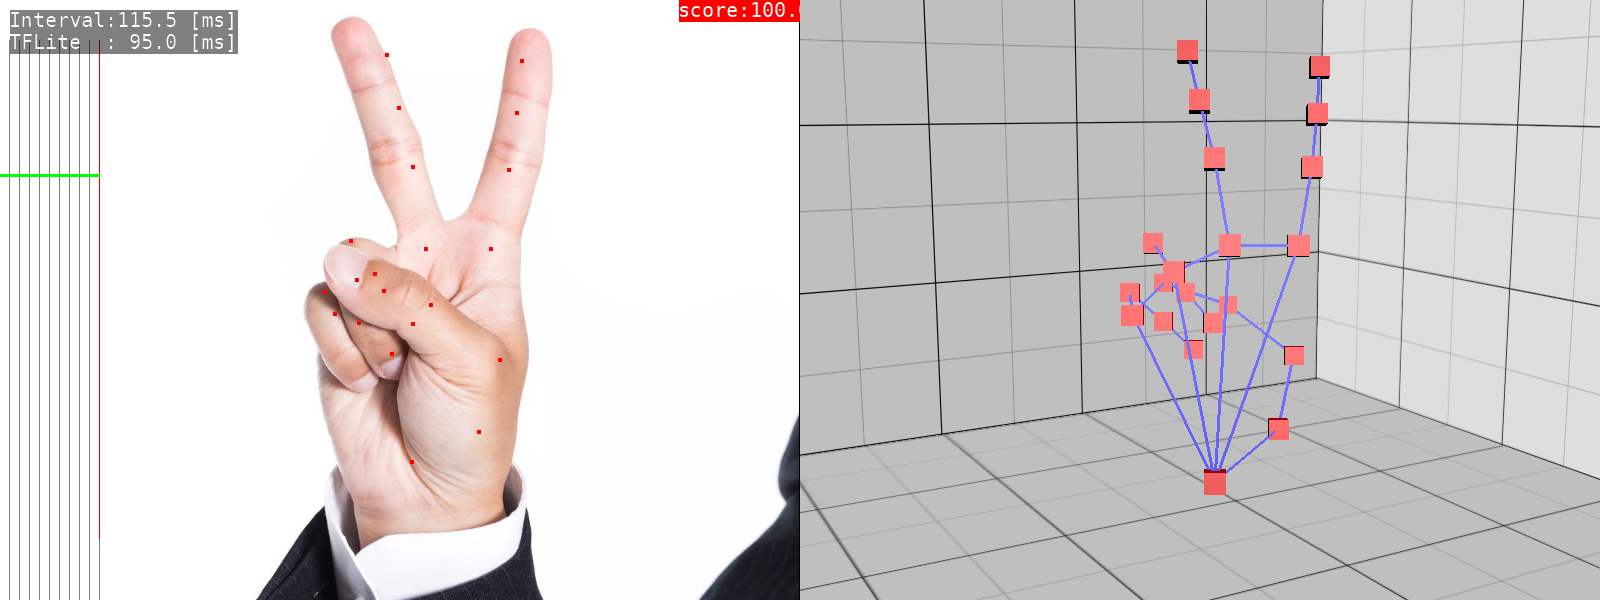
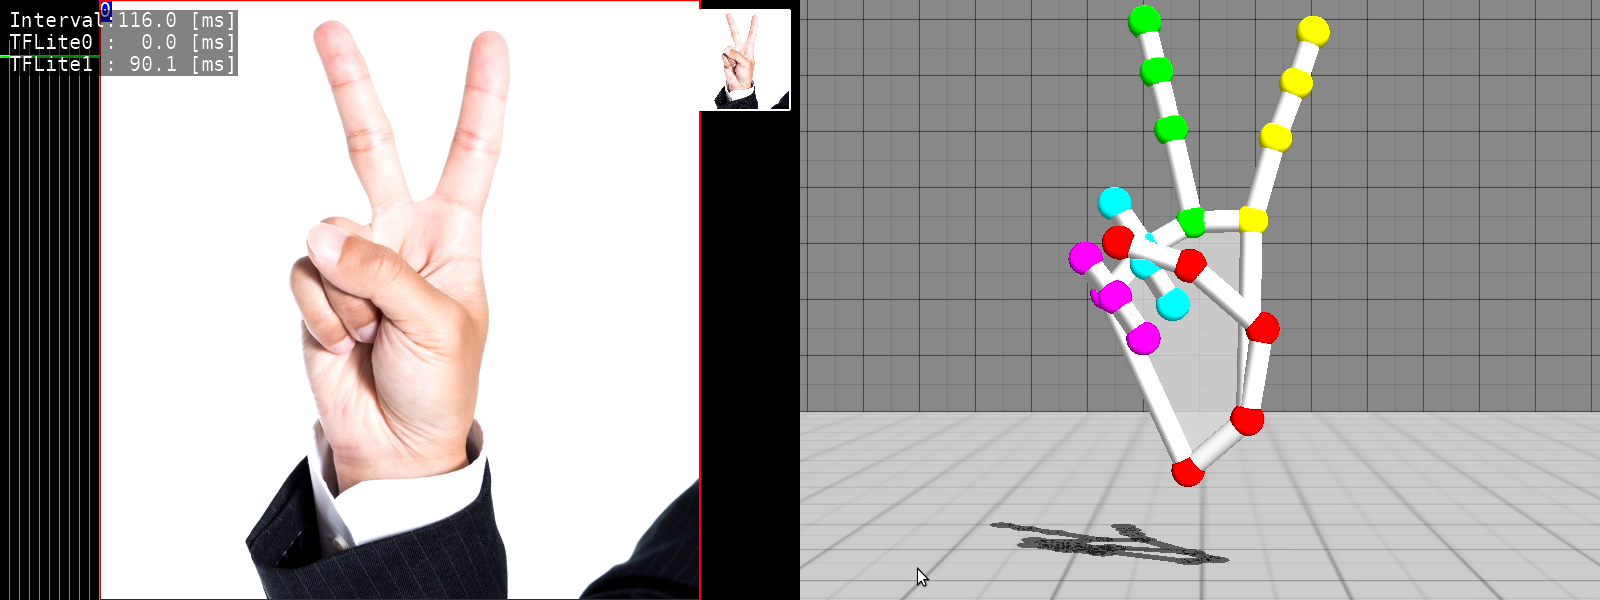
update display design

diff --git a/gl2handpose/main.c b/gl2handpose/main.c
@@ -303,30 +303,15 @@ render_hand_landmark3d (int ofstx, int ofsty, int texw, int texh,
     hand_landmark_result_t hand_draw;
     compute_3d_hand_pos (&hand_draw, texw, texh, hand_landmark, palm);
 
-    /* joint point */
-    matrix_identity (mtxGlobal);
-    matrix_rotate   (mtxGlobal, rotation, 0.0f, 0.0f, 1.0f);
 
-    for (int i = 0; i < HAND_JOINT_NUM; i ++)
-    {
-        float *col;
-        float vec[3] = {hand_draw.joint[i].x, hand_draw.joint[i].y, hand_draw.joint[i].z};
-
-        if      (i >= 17) col = col_violet;
-        else if (i >= 13) col = col_cyan;
-        else if (i >=  9) col = col_green;
-        else if (i >=  5) col = col_yellow;
-        else              col = col_red;
-
-        draw_sphere (mtxGlobal, vec, 15.0f, col);
-    }
-
-    /* joint node */
     for (int is_shadow = 0; is_shadow < 2; is_shadow ++)
     {
-        float *col = col_node;
-        float *colp= col_palm;
+        float *colj;
+        float *coln = col_node;
+        float *colp = col_palm;
+
         matrix_identity (mtxGlobal);
+        matrix_rotate   (mtxGlobal, rotation, 0.0f, 0.0f, 1.0f);
 
         if (is_shadow)
         {
@@ -345,35 +330,53 @@ render_hand_landmark3d (int ofstx, int ofsty, int texw, int texh,
 
             matrix_mult (mtxGlobal, mtxGlobal, mtxShadow);
 
-            col  = col_gray;
+            colj = col_gray;
+            coln = col_gray;
             colp = col_gray;
         }
 
-        matrix_rotate (mtxGlobal, rotation, 0.0f, 0.0f, 1.0f);
+        /* joint point */
+        for (int i = 0; i < HAND_JOINT_NUM; i ++)
+        {
+            float vec[3] = {hand_draw.joint[i].x, hand_draw.joint[i].y, hand_draw.joint[i].z};
 
-        render_node (mtxGlobal, &hand_draw, 0,  1, col);
-        render_node (mtxGlobal, &hand_draw, 0, 17, col);
+            if (!is_shadow)
+            {
+                if      (i >= 17) colj = col_violet;
+                else if (i >= 13) colj = col_cyan;
+                else if (i >=  9) colj = col_green;
+                else if (i >=  5) colj = col_yellow;
+                else              colj = col_red;
+            }
 
-        render_node (mtxGlobal, &hand_draw,  1,  5, col);
-        render_node (mtxGlobal, &hand_draw,  5,  9, col);
-        render_node (mtxGlobal, &hand_draw,  9, 13, col);
-        render_node (mtxGlobal, &hand_draw, 13, 17, col);
+            draw_sphere (mtxGlobal, vec, 15.0f, colj);
+        }
 
+        /* joint node */
+        render_node (mtxGlobal, &hand_draw, 0,  1, coln);
+        render_node (mtxGlobal, &hand_draw, 0, 17, coln);
+
+        render_node (mtxGlobal, &hand_draw,  1,  5, coln);
+        render_node (mtxGlobal, &hand_draw,  5,  9, coln);
+        render_node (mtxGlobal, &hand_draw,  9, 13, coln);
+        render_node (mtxGlobal, &hand_draw, 13, 17, coln);
+
+        for (int i = 0; i < 5; i ++)
+        {
+            int idx0 = 4 * i + 1;
+            int idx1 = idx0 + 1;
+            render_node (mtxGlobal, &hand_draw, idx0,  idx1  , coln);
+            render_node (mtxGlobal, &hand_draw, idx0+1,idx1+1, coln);
+            render_node (mtxGlobal, &hand_draw, idx0+2,idx1+2, coln);
+        }
+
+        /* palm region */
         if (!is_shadow)
         {
             render_palm_tri (mtxGlobal, &hand_draw, 0,  1,  5, colp);
             render_palm_tri (mtxGlobal, &hand_draw, 0,  5,  9, colp);
             render_palm_tri (mtxGlobal, &hand_draw, 0,  9, 13, colp);
             render_palm_tri (mtxGlobal, &hand_draw, 0, 13, 17, colp);
-        }
-
-        for (int i = 0; i < 5; i ++)
-        {
-            int idx0 = 4 * i + 1;
-            int idx1 = idx0 + 1;
-            render_node (mtxGlobal, &hand_draw, idx0,  idx1  , col);
-            render_node (mtxGlobal, &hand_draw, idx0+1,idx1+1, col);
-            render_node (mtxGlobal, &hand_draw, idx0+2,idx1+2, col);
         }
     }
 }

diff --git a/gl2handpose/render_handpose.c b/gl2handpose/render_handpose.c
@@ -372,7 +372,8 @@ draw_sphere (float *mtxGlobal, float *p0, float radius, float *color)
     glUniform3f (s_loc_color, color[0], color[1], color[2]);
     glUniform1f (s_loc_alpha, color[3]);
 
-    glDisable (GL_BLEND);
+    if (color[3] < 1.0f)
+        glEnable (GL_BLEND);
 
     glBindTexture (GL_TEXTURE_2D, s_texid_dummy);
 
